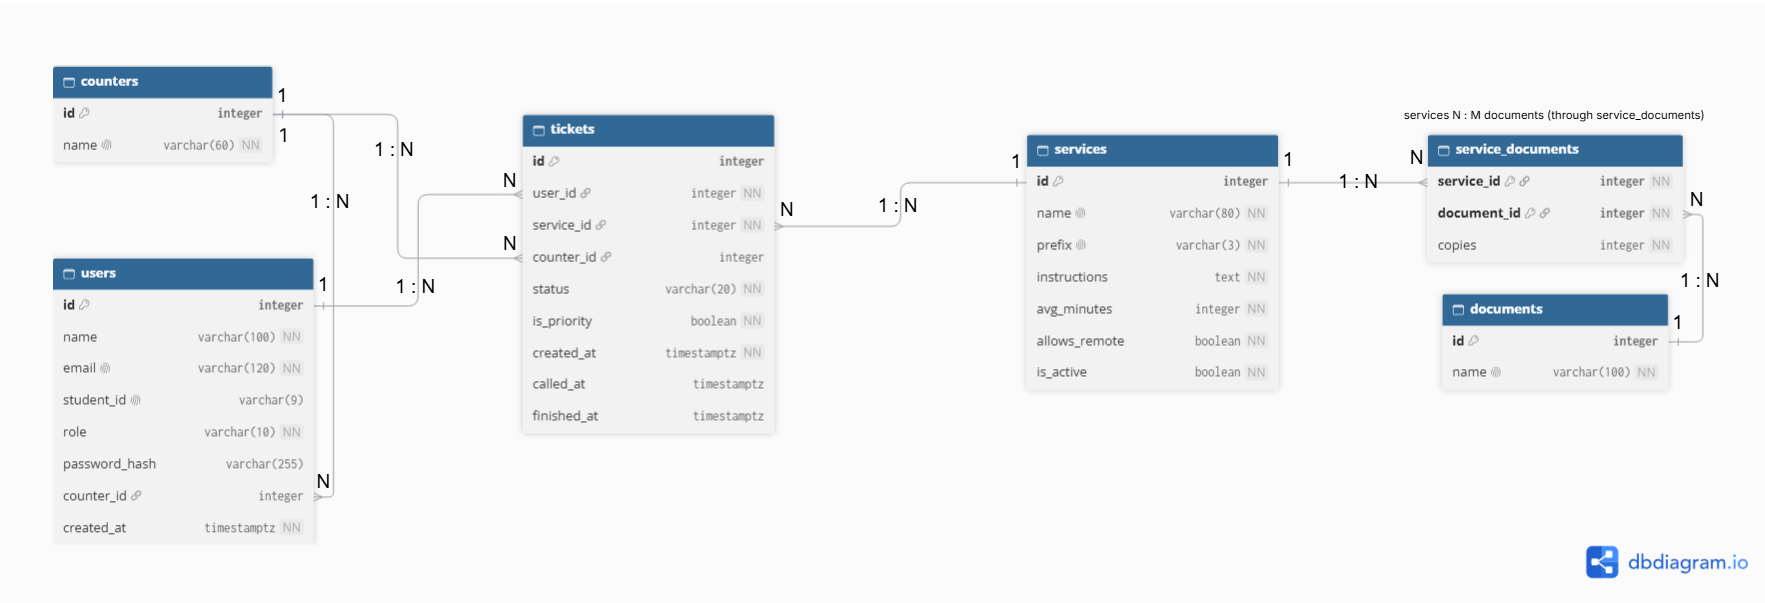
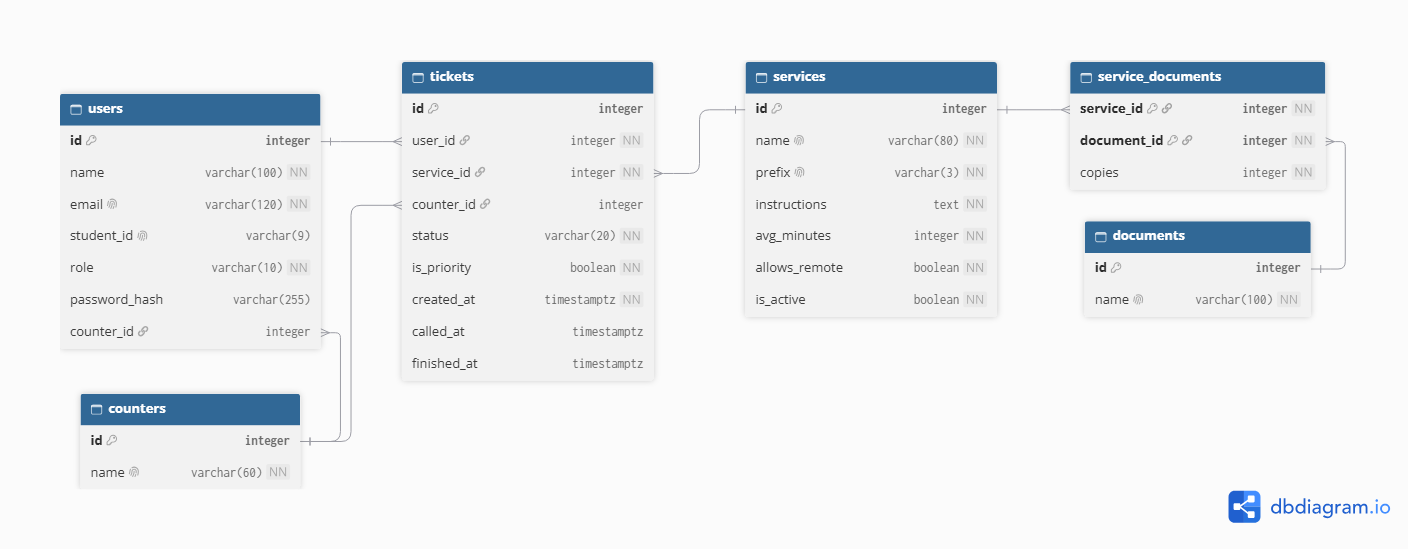
Added schema-review.md and edited schema.md and requirements.md

diff --git a/my-app/docs/week4/schema-review.md b/my-app/docs/week4/schema-review.md
@@ -1,0 +1,142 @@
+# Schema self-review
+
+## Part 1: Answers to the six questions
+
+### 1. Coverage
+
+**Does every requirement marked Stores data? = Yes have a table or column?**
+Yes. Fourteen requirements were marked Yes: FR-01, FR-03, FR-06, FR-08, FR-09, FR-10, FR-11, FR-12, FR-14, FR-15, FR-16, FR-17, FR-18 and FR-19, and Entry 3 adds FR-05, making fifteen. Each has a row in 2a of `schema.md`.
+
+**Does each persona's top task from Week 3 have the data it needs?**
+Yes.
+- **Aira's tasks:** FR-12 (find a service and read its instructions) uses `services.name`, `services.is_active`, `services.instructions` and the document tables. FR-01 (get a ticket) uses `users` and `tickets`, while FR-03 (see her ticket number, service, status and people ahead) uses `tickets.id` + `services.prefix`, `tickets.service_id` → `services.name` and `tickets.status`, and the position is computed.
+- **Ramon's tasks:** FR-10 (sign in) uses `users.role` and `users.password_hash`. FR-08 (call the earliest eligible ticket) uses `tickets.service_id`, `status`, `is_priority` and `created_at`. FR-09 (valid status change) uses `tickets.status`, `called_at` and `finished_at`. His need to see his counter uses `users.counter_id`.
+
+**Is there any table or column that no requirement needs?**
+Yes, three columns:
+- `services.avg_minutes` is used by the wait estimate (FR-05), but FR-05 is marked Stores data? = No in `requirements.md`. The column is needed; the requirement was marked wrongly.
+- `service_documents.copies` is not mentioned in FR-12.
+- `users.created_at` is not needed by any requirement.
+
+### 2. One fact in one place
+
+**Is any fact stored in more than one row or table?**
+Mostly no. Each fact has one home, and other tables refer to it by key:
+- A person's name, email and student ID are only in `users`. `tickets` stores `user_id` only.
+- A service's name, prefix, instructions, average minutes and on/off setting are only in `services`.
+- A counter's name is only in `counters`, and a document's name is only in `documents`.
+- `users.counter_id` (where a staff member works now) and `tickets.counter_id` (where this ticket was called) are different facts, so neither is a copy of the other.
+
+**One problem found:** whether a ticket is finished is stored twice, in `tickets.status` ('served', 'no-show', 'left') and in `tickets.finished_at`. Nothing forces them to agree. I kept both, because status says *what happened* and the timestamp says *when*, and added a CHECK that ties them together. See Entry 2.
+
+### 3. Facts, not results
+
+**Am I storing anything I could compute instead?**
+No. Everything I store is a fact that was entered or recorded, and everything that depends on the current state of the queue is computed when needed:
+
+| Computed, not stored | Computed from |
+| --- | --- |
+| Position in line and people ahead | `tickets.service_id`, `status`, `is_priority`, `created_at` |
+| Estimated wait | people ahead × `services.avg_minutes` |
+| Ticket number such as D-012 | `services.prefix` + `tickets.id` |
+| Daily served / no-show / left counts (FR-17) | COUNT of `tickets` grouped by service, day and `status` |
+| Last-updated time on the ticket page | the time of the last refresh |
+
+Two stored columns could look like results, but are not:
+- `services.avg_minutes` is a setting that staff choose. It is the starting estimate until there is enough ticket history to average.
+- `tickets.status` is not derivable from the timestamps, because "served", "no-show" and "left" cannot be told apart from `called_at` and `finished_at` alone.
+
+One computed value has a limit: the ticket number uses `tickets.id`, which is one sequence shared by all services and never reset. Document Requests tickets could be D-001, D-004, D-009, and numbers keep growing day after day (D-4512). I accept this for now because it still guarantees that no two students get the same number (NFR-02).
+
+### 4. Bad data
+
+I went through the mistakes the personas could make and named the constraint that stops each.
+
+| Mistake | What stops it |
+| --- | --- |
+| Aira double-taps Join | The partial UNIQUE index on `tickets (user_id, service_id) WHERE status IN ('waiting', 'called')` allows only one active ticket per student per service. UNIQUE on `users.email` and `users.student_id` stops a duplicate account being created by the same double tap. |
+| Typo in the student ID | `CHECK (student_id ~ '^[0-9]{4}-[0-9]{4}$')` rejects the wrong format. The current app accepts the ID without a dash, so the app must put the dash back before saving. A typo in the right format (2024-0031 for 2024-0013) cannot be caught, because the app does not check IDs against the student records (see Out of scope in `requirements.md`). |
+| Typo in the email | **Partly Stopped.** After Entry 1, two CHECKs reject a badly formed or uppercase email. A typo in a well-formed address (`aira@msuiit.edu.hp`) still cannot be caught. |
+| Picking a service that does not exist | The foreign key on `tickets.service_id`. |
+| Picking a service that is switched off | **Not stopped by a constraint.** A CHECK or foreign key cannot look at another row's `is_active`. A trigger could, but I chose to keep the rule in the app: it must only accept services where `is_active = true`. See Entry 4. |
+| Ramon marks a waiting ticket as served | `CHECK (status IN ('waiting', 'left') OR called_at IS NOT NULL)` rejects a served or no-show ticket that was never called. |
+| An invalid status, role or prefix | CHECKs on `status`, `role` and `prefix`. |
+| A staff account with no password, or a student with no ID | The two table rules on `users`. |
+| Zero or negative minutes or copies | `CHECK (avg_minutes > 0)` and `CHECK (copies > 0)`. |
+| A ticket finished before it was created or called | `CHECK (called_at >= created_at)`, `CHECK (finished_at >= created_at)`, and, after Entry 2, `CHECK (finished_at >= called_at)`. |
+| A ticket that is finished according to one column but not the other | The CHECK added in Entry 2. |
+| The same document listed twice for one service | The composite PRIMARY KEY on `service_documents`. |
+| Two services with the same name or prefix | UNIQUE on `services.name` and `services.prefix`. |
+| A student given a counter | **Not stopped yet.** Nothing enforces that `users.counter_id` is empty for students. `CHECK (role = 'staff' OR counter_id IS NULL)` would stop it. Will be worked later. |
+| A called ticket with no counter | **Not stopped.** A called, served or no-show ticket can have no `counter_id`, so the ticket page (FR-15) could show no counter. The app must set the counter when it calls a ticket. |
+| A waiting ticket with a call time | **Not stopped yet.** `CHECK (status <> 'waiting' OR called_at IS NULL)` would stop it. Will be worked later. |
+Two kinds of mistake are not covered by a database constraint, so the app must handle them: two staff members calling the same ticket at once, and a ticket moving backwards (for example 'served' to 'called'). The app will change a status only with `UPDATE ... WHERE status = 'waiting'` (or the status it expects), so the second change updates nothing.
+
+### 5. Deletes
+
+**Did I choose RESTRICT, CASCADE or SET NULL on purpose for every foreign key?**
+Yes. Each rule is in the delete-rules table in 2d of `schema.md`, with its reason.
+
+| Foreign key | Rule | Could it destroy history that staff need? |
+| --- | --- | --- |
+| `tickets.user_id` → users | RESTRICT | No. A student with tickets cannot be deleted, so old tickets stay for reports. |
+| `tickets.service_id` → services | RESTRICT | No. A service with tickets cannot be deleted; staff switch it off with `is_active` instead. |
+| `tickets.counter_id` → counters | RESTRICT | No. A counter that has called a ticket cannot be deleted. |
+| `users.counter_id` → counters | SET NULL | No. Only the staff member's current assignment is cleared. The person stays, and tickets keep their own `counter_id`. |
+| `service_documents.service_id` → services | CASCADE | No. A service that ever had a ticket cannot be deleted at all because of the RESTRICT above, so CASCADE only removes the document links of a service that never had a ticket. |
+| `service_documents.document_id` → documents | RESTRICT | No. A document still used by a service cannot be deleted. |
+
+No delete can remove a ticket, because no rule cascades to `tickets`. The cost of RESTRICT is that a student with tickets, or a counter that has called tickets, can never be deleted. I accepted this because the daily reports (FR-17) need the history, and no requirement asks for deleting people or counters.
+
+### 6. Types
+
+**Is every moment in time a `timestamptz`?**
+Yes. The moments are `tickets.created_at`, `tickets.called_at` and `tickets.finished_at`, and all are `timestamptz`. (`users.created_at` was also `timestamptz` before Entry 3 removed it.) No date or time is stored as text. The daily report (FR-17) groups tickets by day, so the query must convert to the office's time zone first, for example `created_at AT TIME ZONE 'Asia/Manila'`. Otherwise, if the database session runs in UTC, a day would start at 8 a.m. Manila time instead of midnight.
+
+**Is anything stored as text that should be a number, a date or a true/false value?**
+No.
+- Numbers (`avg_minutes`, `copies`, and all ids) are `integer`.
+- Yes/no facts (`is_priority`, `allows_remote`, `is_active`) are `boolean`, not 'yes'/'no' text.
+- `student_id` is text on purpose, because it is an identifier with a dash and leading zeros (2024-0013), not a number anyone does math on.
+- `status` and `role` are `varchar` limited by a CHECK to a fixed set of words.
+- `name`, `email`, `prefix`, `instructions` and `password_hash` are real text.
+
+## Part 2: Entries
+
+### Entry 1: email checks
+
+**Works well:** Nothing a student sees on screen is stored as a result. Position in line, people ahead, estimated wait, the ticket number shown as D-012, and the daily served, no-show and left counts are all computed from `tickets.id`, `service_id`, `status`, `created_at`, `is_priority`, `services.prefix` and `services.avg_minutes`. A person leaving or joining never forces a rewrite of other rows (Question 3).
+
+**Problem:** `users.email` only has NOT NULL and UNIQUE. Aira could type `aira@` or `aira@msuiit`, and the database would accept it. `Aira@msuiit.edu.ph` and `aira@msuiit.edu.ph` would also count as two different accounts, because UNIQUE is case-sensitive.
+
+**Change:** Added two CHECK constraints to `users` in `schema.md` (2c): `CHECK (email = lower(email))` and `CHECK (email ~ '^[^@[:space:]]+@[^@[:space:]]+\.[^@[:space:]]+$')`. The app already lowercases the email before saving, so the first CHECK matches what it does. The ERD does not change, because these are constraints and not columns.
+
+### Entry 2: status and finished_at can disagree
+
+**Works well:** The partial unique index on `tickets (user_id, service_id) WHERE status IN ('waiting', 'called')` stops a double tap on Join from creating two tickets for the same student and service. The `student_id` CHECK and UNIQUE also stop a badly formatted or duplicated student ID (Question 4).
+
+**Problem:** Whether a ticket is finished is stored twice: once in `status` ('served', 'no-show', 'left') and once in `finished_at`. Nothing forces them to agree, so a ticket could be 'waiting' with a `finished_at`, or 'served' with none. That would break the FR-17 daily counts. Nothing checks that `finished_at` comes after `called_at` either. Question 2 found it (a fact in more than one place).
+
+**Change:** Added two table rules to `tickets` in `schema.md` (2c): `CHECK ((status IN ('served', 'no-show', 'left')) = (finished_at IS NOT NULL))` and `CHECK (finished_at >= called_at)`. I kept both `status` and `finished_at` because they answer different questions: the status says what happened, and the timestamp says when. The ERD does not change.
+
+### Entry 3: columns that no requirement needs
+
+**Works well:** Every moment in time is `timestamptz` (`created_at`, `called_at`, `finished_at`). Numbers are `integer`, flags are `boolean`, and `student_id` is text on purpose because it is an ID with a dash and leading zeros, not a number (Question 6).
+
+**Problem:** Three columns have no matching requirement (Question 1). `services.avg_minutes` is needed by FR-05, but `requirements.md` marks FR-05 as Stores data? = No. `service_documents.copies` is not mentioned in FR-12. `users.created_at` is not needed by any requirement.
+
+**Change:**
+- Changed FR-05 to Stores data? = **Yes** in `requirements.md`, because the wait estimate depends on a stored `avg_minutes`.
+- Kept `copies`, and reworded FR-12 to "...instructions and required documents, and how many copies of each, ...". This supports Aira's goal of not making another trip because a requirement is missing, and it is the extra column that depends on both keys in the 2NF answer.
+- Removed `users.created_at` from `users` in 2b, 2c and the ERD, since no requirement needs it. Tickets keep their own `created_at`, so the queue order and the `timestamptz` requirement are unaffected.
+
+### Entry 4: a switched-off service can still receive a ticket
+
+**Works well:** Every delete rule was chosen on purpose. `tickets.user_id`, `tickets.service_id` and `tickets.counter_id` are RESTRICT, so a delete can never erase the tickets that the FR-17 daily report counts. Staff retire a service by switching it off with `is_active`, not by deleting it. `users.counter_id` is SET NULL, because a staff member should survive a counter being removed (Question 5).
+
+**Problem:** The foreign key on `tickets.service_id` checks that the service exists, but not that it is switched on. A student could still get a ticket for a service with `is_active = false`, for example from an old Join page left open. A CHECK constraint cannot look at another table, so no constraint can stop it. A trigger could, but I chose to keep the rule in the app.
+
+**Change:** No change to the ERD or `schema.md`. A trigger could reject the insert, but I kept the rule in the app because it is one check in one place, and the app already checks the rest of the Join form. The app will:
+- list only services where `is_active = true` on the Join form (FR-11)
+- check again on submit with `INSERT INTO tickets ... SELECT ... FROM services WHERE id = :service_id AND is_active = true`, so a Join page left open after a service is switched off inserts nothing and shows "This service is closed."
+- check `allows_remote` the same way for remote joins (FR-16). The database cannot check this, because a ticket does not record whether it was a remote join.

diff --git a/my-app/docs/week4/schema.md b/my-app/docs/week4/schema.md
@@ -8,12 +8,13 @@ Only requirements with **Stores data? = Yes** from [requirements.md](../requirem
 | --- | --- | --- | --- |
 | FR-01 | A **student** can join the **queue** for a **service** by entering their **name**, 8-digit **student ID** and school **email**. | student, queue, service, name, student ID, email | users, queue *(not a table)*, services, users.name, users.student_id, users.email. Joining adds a row to tickets. |
 | FR-03 | A student can see their **ticket number**, **service**, **status** and how many people are **ahead** of them. | ticket number, service, status, ahead | tickets.id, tickets.service_id → services.name, tickets.status, *(computed)* |
+| FR-05 | A student can see an **estimated wait time** that is clearly labelled as an estimate. | estimated wait time | *(computed)*: people ahead × services.avg_minutes. The stored fact is services.avg_minutes. |
 | FR-06 | A **student** can leave the **queue** before being called. | student, queue | users, queue *(not a table)*. Leaving sets tickets.status = 'left' and tickets.finished_at. |
 | FR-08 | A **staff member** can call the earliest waiting **ticket** for a **service**. | staff member, ticket, service | users (role = 'staff'), tickets, services. "Earliest" comes from tickets.created_at. Calling sets tickets.status and tickets.called_at. |
 | FR-09 | A staff member can mark a called **ticket** as **served** or **no-show**. | ticket, served, no-show | tickets, tickets.status, tickets.finished_at |
 | FR-10 | A **staff member** must sign in before they can see the **staff dashboard** or change a **ticket**. | staff member, staff dashboard, ticket | users.role, users.password_hash, staff dashboard *(page, not a table)*, tickets |
 | FR-11 | A staff member can add, rename and switch off a **service**, and a switched-off service no longer appears on the **Join form**. | service, Join form | services, services.name, services.is_active, Join form *(page, not a table)* |
-| FR-12 ★ | A student can read the plain-language **instructions** and **required documents** for a **service** before joining its queue. | instructions, required documents, service | services.instructions, documents + service_documents, services |
+| FR-12 ★ | A student can read the plain-language **instructions** and **required documents**, and how many **copies** of each, for a **service** before joining its queue. | instructions, required documents, copies, service | services.instructions, documents + service_documents, service_documents.copies, services |
 | FR-14 | A student can hold only one **active ticket** per **service** at a time, checked by **student ID**. | active ticket, service, student ID | tickets.status IN ('waiting', 'called') with a partial UNIQUE index, services, users.student_id |
 | FR-15 ★ | A staff member can set the **counter** they are working at (for example "Registrar Window 2"), and a called student's **ticket page** shows which counter to go to. | counter, ticket page | counters, users.counter_id, tickets.counter_id, ticket page *(page, not a table)* |
 | FR-16 ★ | A staff member can set whether a service allows **remote joining** or **in-person joining** only, and the Join form follows that setting. | remote joining, in-person joining | services.allows_remote |
@@ -25,7 +26,7 @@ Only requirements with **Stores data? = Yes** from [requirements.md](../requirem
 
 | Table | Qonnect columns |
 | --- | --- |
-| `users` | id, name, email, student_id, role, password_hash, counter_id, created_at |
+| `users` | id, name, email, student_id, role, password_hash, counter_id |
 | `services` | id, name, prefix, instructions, avg_minutes, allows_remote, is_active |
 | `tickets` | id, user_id, service_id, counter_id, status, is_priority, created_at, called_at, finished_at |
 | `counters` | id, name |
@@ -38,12 +39,11 @@ Only requirements with **Stores data? = Yes** from [requirements.md](../requirem
 | --- | --- | --- | --- | --- |
 | users | id | integer, generated | PRIMARY KEY | Generated by the database, never reused |
 | users | name | varchar(100) | NOT NULL | Staff need a name to call the student |
-| users | email | varchar(120) | NOT NULL UNIQUE | One account per email |
+| users | email | varchar(120) | NOT NULL UNIQUE, `CHECK (email = lower(email))`, `CHECK (email ~ '^[^@[:space:]]+@[^@[:space:]]+\.[^@[:space:]]+$')` | One account per email. Lowercase only, so Aira@msuiit.edu.ph and aira@msuiit.edu.ph can't be two accounts (UNIQUE is case-sensitive). Rejects badly formed emails such as aira@ or aira@msuiit |
 | users | student_id | varchar(9) | UNIQUE, CHECK (student_id ~ '^[0-9]{4}-[0-9]{4}$') | One account per student. Stored as text because it is an ID with a dash and leading zeros (2024-0013)|
 | users | role | varchar(10) | NOT NULL DEFAULT 'student', CHECK (role IN ('student', 'staff')) | Only two kinds of user |
 | users | password_hash | varchar(255) | *(nullable)* | Only staff sign in (FR-10). Students have no password. We store the hash, never the password |
 | users | counter_id | integer | REFERENCES counters(id) ON DELETE SET NULL | The counter a staff member is working at now. Empty for students and for staff not at a counter |
-| users | created_at | timestamptz | NOT NULL DEFAULT now() | Time zone safe; set by the database |
 | users | *(table rule)* | | CHECK (role = 'staff' OR student_id IS NOT NULL) | Every student must have a student ID |
 | users | *(table rule)* | | CHECK (role = 'student' OR password_hash IS NOT NULL) | Every staff member must be able to sign in |
 | services | id | integer, generated | PRIMARY KEY | Generated by the database, never reused |
@@ -63,6 +63,8 @@ Only requirements with **Stores data? = Yes** from [requirements.md](../requirem
 | tickets | called_at | timestamptz | CHECK (called_at >= created_at) | Empty until called; a ticket can't be called before it exists |
 | tickets | finished_at | timestamptz | CHECK (finished_at >= created_at) | When it was served, marked no-show or left (FR-17) |
 | tickets | *(table rule)* | | CHECK (status IN ('waiting', 'left') OR called_at IS NOT NULL) | Called, served and no-show tickets must have been called first (FR-13) |
+| tickets | *(table rule)* | | CHECK ((status IN ('served', 'no-show', 'left')) = (finished_at IS NOT NULL)) | A ticket has a finish time exactly when it is served, no-show or left, so status and finished_at can't disagree (FR-17 counts) |
+| tickets | *(table rule)* | | CHECK (finished_at >= called_at) | A ticket can't finish before it was called. Passes when called_at is empty (a student who left while waiting) |
 | tickets | *(table rule)* | | UNIQUE (user_id, service_id) WHERE status IN ('waiting', 'called') *(partial unique index)* | One active ticket per student per service (FR-14) |
 | counters | id | integer, generated | PRIMARY KEY | Generated by the database, never reused |
 | counters | name | varchar(60) | NOT NULL UNIQUE | "Registrar Window 2" must mean one place |
@@ -70,7 +72,7 @@ Only requirements with **Stores data? = Yes** from [requirements.md](../requirem
 | documents | name | varchar(100) | NOT NULL UNIQUE | Each document is written once and shared by services |
 | service_documents | service_id | integer | NOT NULL REFERENCES services(id) ON DELETE CASCADE | Part of the key; links to the service |
 | service_documents | document_id | integer | NOT NULL REFERENCES documents(id) ON DELETE RESTRICT | Part of the key; links to the document |
-| service_documents | copies | integer | NOT NULL DEFAULT 1, CHECK (copies > 0) | How many copies this service needs of this document |
+| service_documents | copies | integer | NOT NULL DEFAULT 1, CHECK (copies > 0) | How many copies this service needs of this document (FR-12) |
 | service_documents | *(table rule)* | | PRIMARY KEY (service_id, document_id) | A service can't list the same document twice |
 
 **Required constraints used:** PRIMARY KEY (every `id`, plus the composite key on `service_documents`), FOREIGN KEY (`tickets.user_id`, `tickets.service_id`, `tickets.counter_id`, `users.counter_id`, `service_documents.service_id`, `service_documents.document_id`), NOT NULL, UNIQUE (`users.email`, `services.name`, and others), CHECK (`tickets.status`, `services.avg_minutes`, and others), and `timestamptz` (`created_at`, `called_at`, `finished_at`). No dates, times or numbers are stored as text.

diff --git a/my-app/docs/requirements.md b/my-app/docs/requirements.md
@@ -19,14 +19,14 @@
 | FR-02 ★ | A student must confirm that they have the documents the service requires before they can get a ticket. | Must | No | Built (Week 3) |
 | FR-03 | A student can see their ticket number, service, status and how many people are ahead of them. | Must | **Yes** | Built (Week 3) |
 | FR-04 | A student's ticket page updates its status by itself every 10 seconds and shows the time of the last update. | Must | No | Built (Week 3) |
-| FR-05 | A student can see an estimated wait time that is clearly labelled as an estimate. | Should | No | Built (Week 3) |
+| FR-05 | A student can see an estimated wait time that is clearly labelled as an estimate. | Should | **Yes** | Built (Week 3) |
 | FR-06 | A student can leave the queue before being called. | Must | **Yes** | Built (Week 3) |
 | FR-07 | A staff member can filter the queue to show one service only. | Must | No | Built (Week 3) |
 | FR-08 | A staff member can call the earliest waiting ticket for a service. | Must | **Yes** | Built (Week 3) |
 | FR-09 | A staff member can mark a called ticket as served or no-show. | Must | **Yes** | Built (Week 3) |
 | FR-10 | A staff member must sign in before they can see the staff dashboard or change a ticket. | Must | **Yes** | Later |
 | FR-11 | A staff member can add, rename and switch off a service, and a switched-off service no longer appears on the Join form. | Must | **Yes** | This week |
-| FR-12 ★ | A student can read the plain-language instructions and required documents for a service before joining its queue. | Must | **Yes** | This week |
+| FR-12 ★ | A student can read the plain-language instructions and required documents, and how many copies of each, for a service before joining its queue. | Must | **Yes** | This week |
 | FR-13 | A staff member can only mark a ticket served or no-show after it has been called. Waiting tickets show no Serve or No-show button. | Should | No | This week |
 | FR-14 | A student can hold only one active ticket per service at a time, checked by student ID. | Should | **Yes** | Later |
 | FR-15 ★ | A staff member can set the counter they are working at (for example "Registrar Window 2"), and a called student's ticket page shows which counter to go to. | Should | **Yes** | Later |
